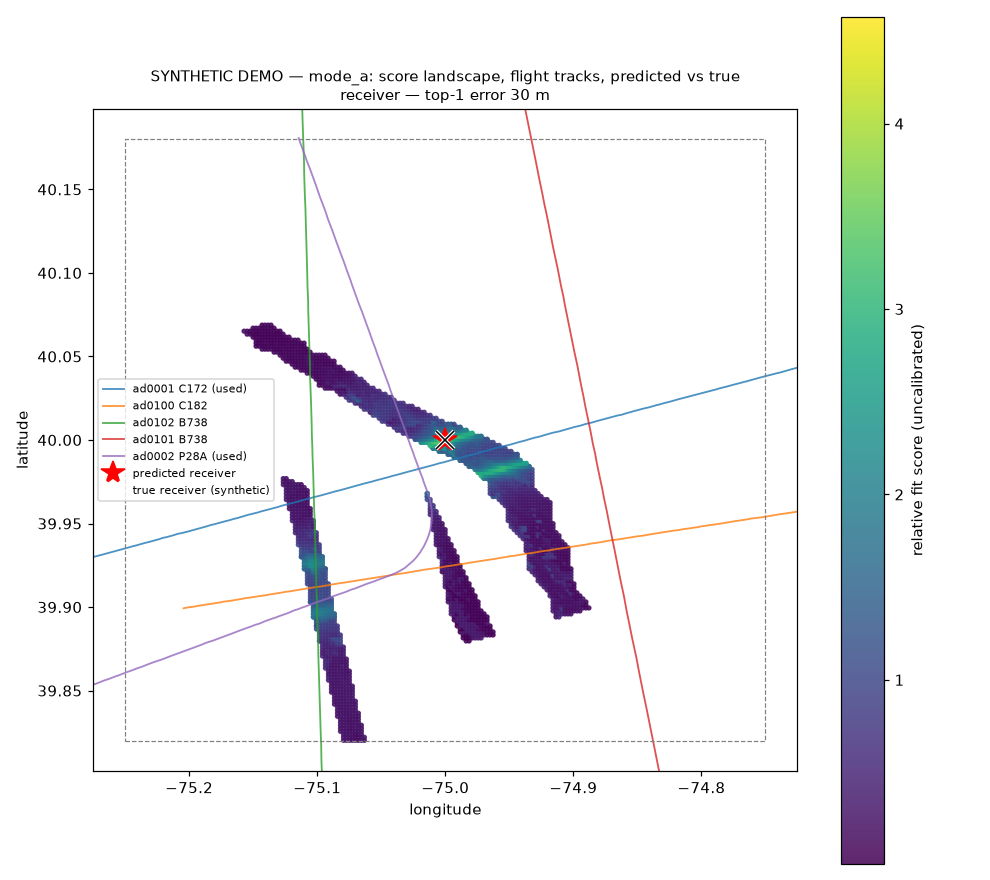
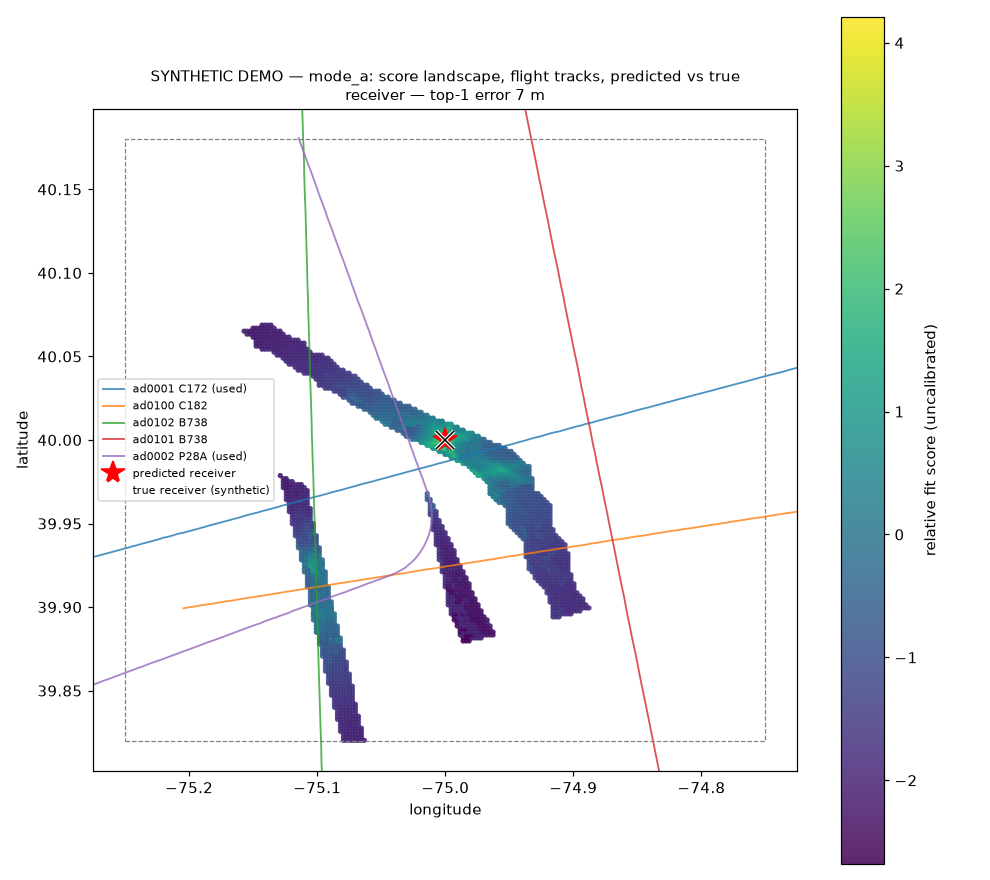
Final demo figures/screenshots and numbers

diff --git a/IMPLEMENTATION_REPORT.md b/IMPLEMENTATION_REPORT.md
@@ -168,8 +168,11 @@ distractors, 60 Hz hum, gusts, SNR 10 dB at CPA, synthetic DEM, baro-offset ADS-
 [demo] mode_b: abstained=False best error 187.4 m, score 4.6, inferred start 2026-09-08T14:07:10Z (truth …13Z)
 ```
 
-(an earlier run of the same demo with seed 7 gave 48.8 m / 108.6 m; differences come from the
-coarse grid phase and the 25 m refinement, both reported as `nominal_grid_spacing_m`).
+(earlier runs of the same demo during development gave 48.8 m / 108.6 m and 29.9 m / 73 m;
+the **final code** gives Mode A **7.3 m** (score 4.21, inferred start 14:07:12.8 vs truth
+14:07:13.0) and Mode B **128 m** (±10 s clock, single straight flyby: along-track/mirror
+ambiguity, see docs/theory.md). Differences come from the coarse grid phase and the 25 m
+refinement, both reported as `nominal_grid_spacing_m`.)
 Figures: `data/runs/demo/mode_a_map.png`, `mode_a_curves_best.png`, `mode_b_*`,
 `spectrogram_detected_ridges.png` (copied to `docs/img/` for the README).
 

diff --git a/README.md b/README.md
@@ -39,9 +39,9 @@ to `data/runs/demo/`:
 | ![](docs/img/demo_spectrogram_ridges.png) | ![](docs/img/demo_mode_a_curves.png) |
 | auto-detected ridges (SYNTHETIC) | observed (dotted) vs predicted (dashed) curves at the top-1 location |
 
-Observed demo result (seed 7, SNR 10 dB at CPA): Mode A top-1 error **19.6 m** with the recording
-clock recovered to 0.24 s and both fundamentals within 0.1 Hz; Mode B (known time ±10 s, one
-event) **187 m**. These are synthetic numbers; see "Benchmarks" below.
+Observed demo result (seed 7, SNR 10 dB at CPA, final code): Mode A top-1 error **7.3 m** with
+the recording clock recovered to 0.2 s; Mode B (known time ±10 s, one straight flyby, which is
+along-track/mirror ambiguous) **128 m**. These are synthetic numbers; see "Benchmarks" below.
 
 Full test suite including the slow end-to-end and API tests (~10 min):
 
